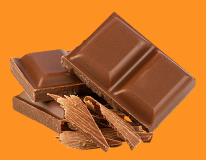
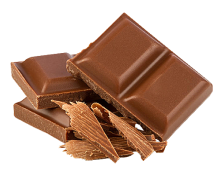
add reina ingridients

diff --git a/index.html b/index.html
@@ -181,6 +181,7 @@
                 <div class="ingridient-item">
                   <img
                   class="ingridient-photo"
+                  srcset="./images/ingrsdients/chocolate.png 1x, ./images/ingrsdients/chocolate@2x.png 2x"
                   src="./images/ingrsdients/chocolate.png"
                   alt="chocolate"
                   width="224"
@@ -201,7 +202,8 @@
               <div class="ingridient">
                 <img
                 class="ingridient-photo"
-                  src="./images/ingrsdients/milk.webp"
+                srcset="./images/ingrsdients/milk.png 1x, ./images/ingrsdients/milk@2x.png 2x"
+                  src="./images/ingrsdients/milk.png"
                   alt="milk"
                   width="224"
                 />
@@ -222,7 +224,8 @@
               <div class="ingridient-nuts">
                 <img
                 class="ingridient-photo"
-                  src="./images/ingrsdients/nuts.webp"
+                srcset="./images/ingrsdients/nuts.png 1x, ./images/ingrsdients/nuts@2x.png 2x"
+                  src="./images/ingrsdients/nuts.png"
                   alt="nuts"
                   width="224"
                 />
@@ -240,7 +243,8 @@
             <li class="ingridients-item">
               <div class="ingridient">
                 <img class="ingridient-photo"
-                  src="./images/ingrsdients/semi.webp"
+                srcset="./images/ingrsdients/semi.png 1x, ./images/ingrsdients/semi@2x.png 2x"
+                  src="./images/ingrsdients/semi.png"
                   alt="semi"
                   width="224"
                 />

diff --git a/css/style.css b/css/style.css
@@ -567,11 +567,11 @@ letter-spacing: 0.02em;
   position: relative;
   overflow: hidden;
   margin-bottom: 8px;
- 
 }
 
 .produkt-img {
-  margin: 0 auto; 
+  margin: 0 auto;
+  width: 290px; 
 }
 .produkt {
 border: 1px solid rgba(17, 17, 17, 0.10);
